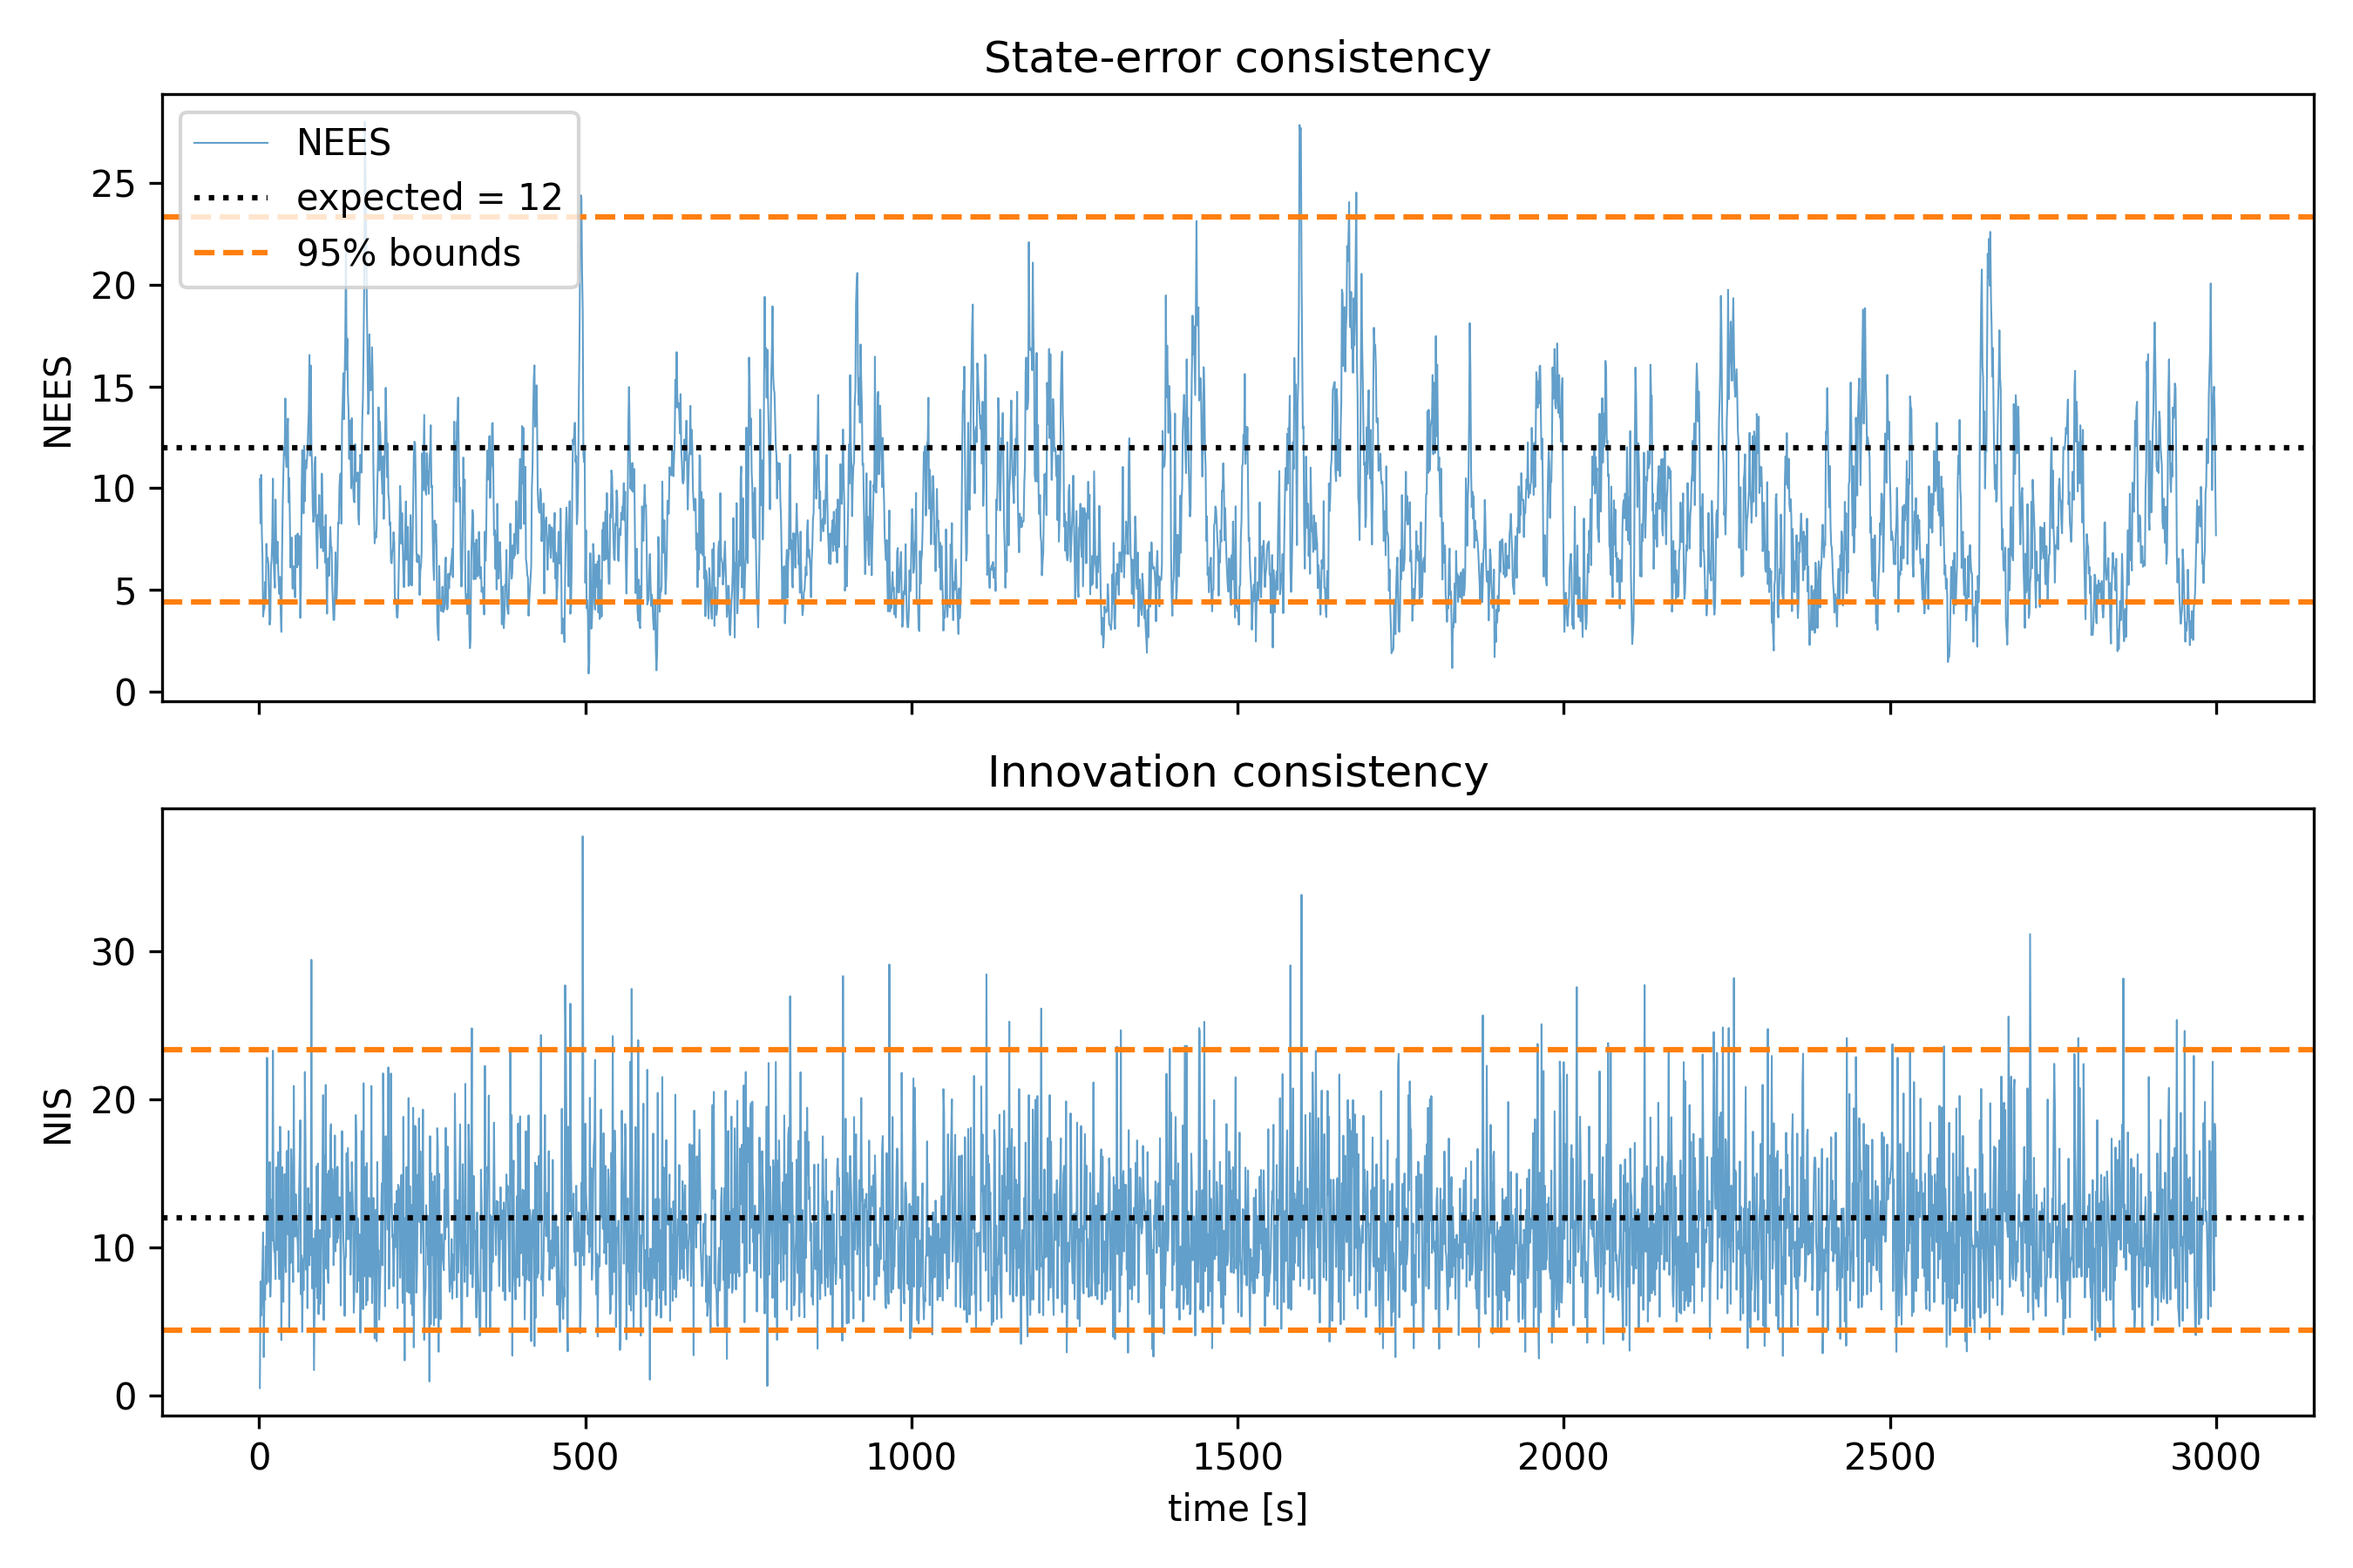
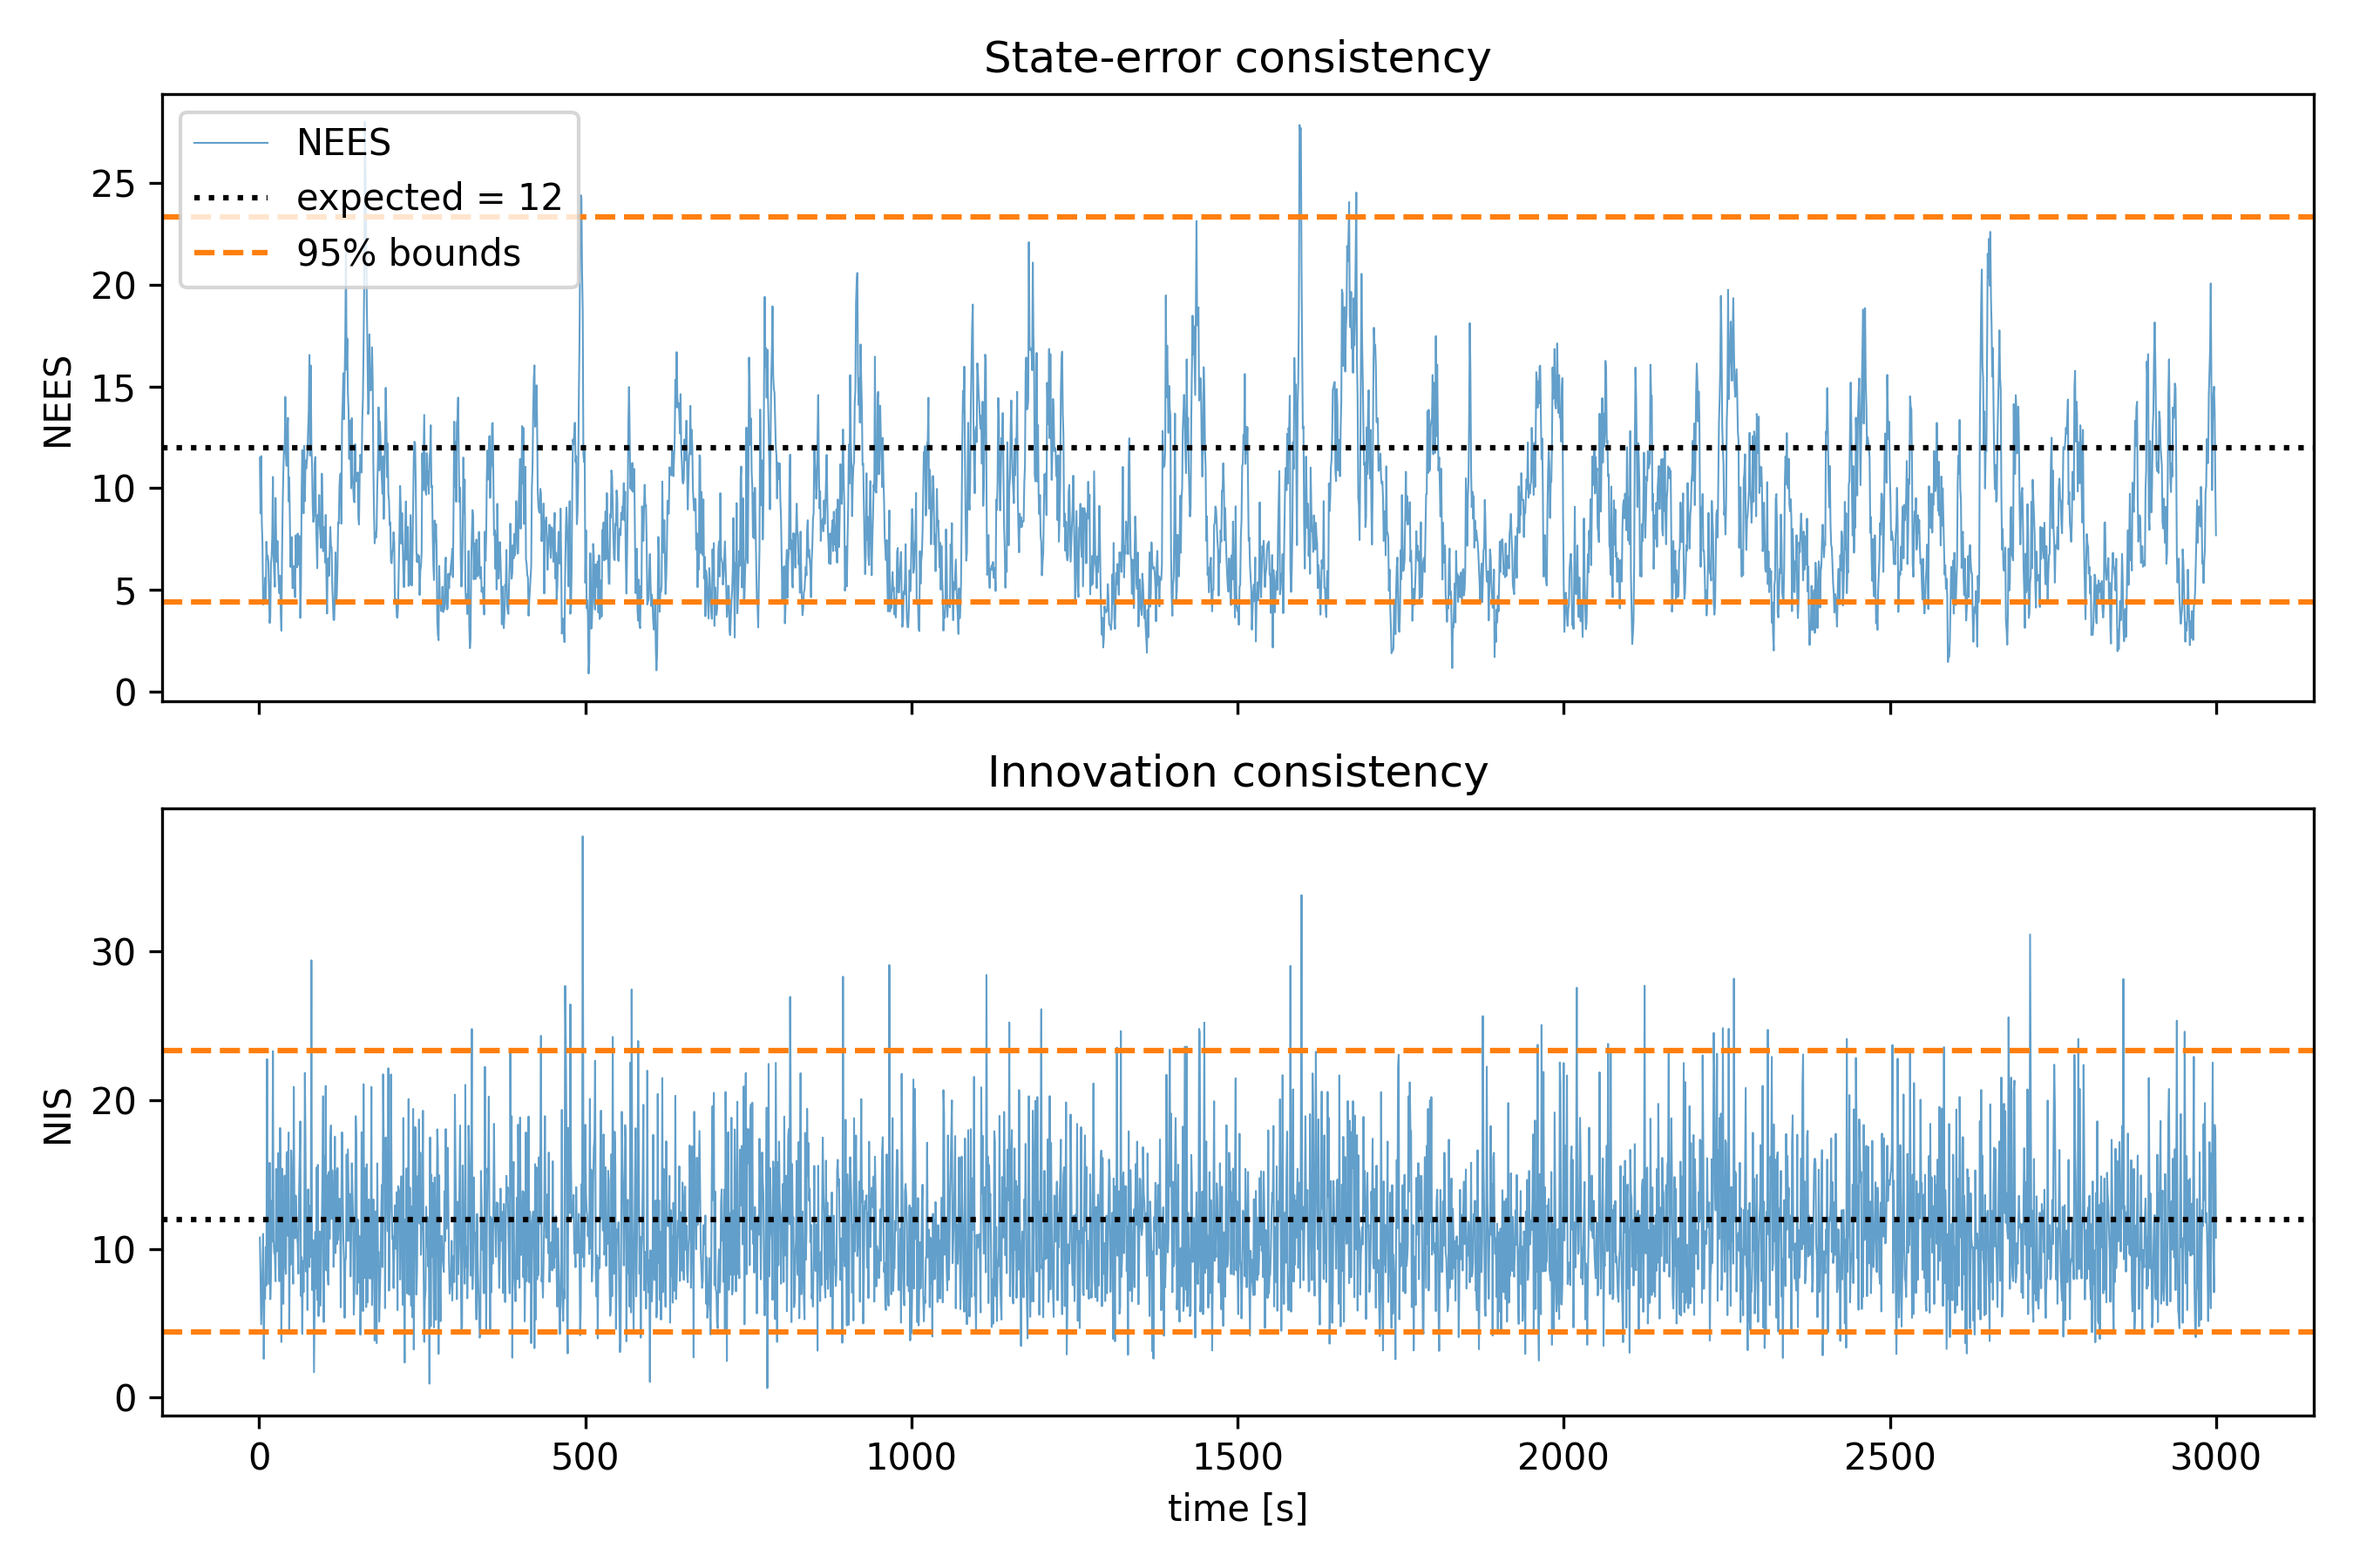
fixed x0_est and some comments

Changed region(s): [[0.0933, 0.84, 0.1244, 0.8711]]

diff --git a/scripts/run_ekf_nominal.py b/scripts/run_ekf_nominal.py
@@ -12,13 +12,15 @@ from src.fsw.control import LQRController
 from src.sim.scheduler import Scheduler
 from src.sim.runner import SimRunner
 from scripts.run_openloop import build_params
+from src.utils.quaternions import quat_multiply, quat_normalize
 
 def main():
     params = build_params()
 
     # --- LQR tuning matrices
     # arbitrary values but this Q setting (penalizes state error) has position weighted 
-    # 10× more than velocity, meaningwe care more about being at the dock than about Rthe exact speed
+    # 10× more than velocity, meaningwe we care more about being at the dock
+    # than about the exact speed
     Q_trans = np.diag([1.0, 1.0, 1.0,    # position error (x,y,z)
                        0.1, 0.1, 0.1])   # velocity error (vx,vy,vz)
     R_trans = np.diag([1.0, 1.0, 1.0]) * 10.0    # thrust cost; bigger = stingier with fuel
@@ -26,10 +28,10 @@ def main():
     R_att   = np.diag([1.0, 1.0, 1.0]) * 100.0   # make using torque very expensive
 
     # --- EKF tuning, [δr(3), δv(3), δθ(3), δω(3)]
-    # sort of arbitrary, but the idea is that we have a good handle on the translational state
-    # (position & velocity) and worse on the attitude (small-angle error) and angular rate
-    # The process noise is set to be small for position and attitude, 
-    # and larger for velocity and angular rate, which are the primary channels of uncertainty.
+    # sort of arbitrary, but i assume moderate spatial error, tighter confidence in
+    # initial angular rate, looser on initial attitude
+    # The process noise is set to be small for position and attitude, and larger
+    # for velocity and angular rate, which are the primary channels of uncertainty.
     P0 = np.diag([
         1.0, 1.0, 1.0,               # initial pos uncertainty (m^2)
         0.1, 0.1, 0.1,               # velocity  (m/s)^2
@@ -70,7 +72,20 @@ def main():
     # it starts with a small initial estimate error (up to 0.5 m) and relies on
     # its measurement updates to converge
     x0_est = x0.copy()
-    x0_est[0:3] += np.array([0.5, -0.5, 0.3])
+
+    # Position: 1.0 m per axis (matches P0 = 1.0 m²)
+    x0_est[0:3]   += np.array([1.0, -1.0, 1.0])
+    # Velocity: 0.316 m/s per axis (matches P0 = 0.1 (m/s)²)
+    x0_est[3:6]   += np.array([0.316, -0.316, 0.316])
+    # Angular rate: 0.1 deg/s per axis (matches P0 = deg2rad(0.1)²)
+    x0_est[10:13] += np.deg2rad(np.array([0.1, -0.1, 0.1]))
+
+    # Attitude: 5 deg per axis (matches P0 = deg2rad(5)²)
+    # Apply MULTIPLICATIVELY (not additively — attitude trap)
+    dtheta = np.deg2rad(np.array([5.0, -5.0, 5.0]))
+    dq = np.array([1.0, 0.5*dtheta[0], 0.5*dtheta[1], 0.5*dtheta[2]])
+    dq = quat_normalize(dq)
+    x0_est[6:10] = quat_normalize(quat_multiply(x0_est[6:10], dq))
 
     plant = Plant(params, x0)
     actuators = Actuators(max_force=10.0, max_torque=5.0)

diff --git a/src/analysis/monte_carlo.py b/src/analysis/monte_carlo.py
@@ -79,13 +79,15 @@ def run_single(seed, nominal_x0, params, dock_position, t_end=3000.0, dt=1.0,
     x0_truth = (sample_dispersed_x0(rng, nominal_x0) if disperse_ic
                 else nominal_x0.copy())
 
-    # --- EKF initial estimate: a further small offset from the dispersed truth
-    # simulates real-life uncertainty at initialization: the EKF does not 
-    # know the exact true position of the spacecraft right at t=0; 
-    # it starts with a small initial estimate error (up to 0.5 m) and relies on
-    # its measurement updates to converge
+    # EKF initial estimate
     x0_est = x0_truth.copy()
-    x0_est[0:3] += rng.normal(0, 0.5, 3)
+    x0_est[0:3]   += np.array([1.0, -1.0, 1.0])
+    x0_est[3:6]   += np.array([0.316, -0.316, 0.316])
+    x0_est[10:13] += np.deg2rad(np.array([0.1, -0.1, 0.1]))
+    dtheta = np.deg2rad(np.array([5.0, -5.0, 5.0]))
+    dq = np.array([1.0, 0.5*dtheta[0], 0.5*dtheta[1], 0.5*dtheta[2]])
+    dq = quat_normalize(dq)
+    x0_est[6:10] = quat_normalize(quat_multiply(x0_est[6:10], dq))
 
     plant = Plant(params, x0_truth)
     actuators = Actuators(max_force=10.0, max_torque=5.0)

diff --git a/scripts/run_dropout.py b/scripts/run_dropout.py
@@ -45,7 +45,21 @@ def run_with_dropout(dropout_windows, t_end=3000.0, dt=1.0, seed=42):
     sensor = DropoutSensor(base_sensor, dropout_windows, dt=dt)
 
     x0_est = x0.copy()
-    x0_est[0:3] += [0.5, -0.5, 0.3]
+    #x0_est[0:3] += [0.5, -0.5, 0.3]
+    # Position: 1.0 m per axis (matches P0 = 1.0 m²)
+    x0_est[0:3]   += np.array([1.0, -1.0, 1.0])
+    # Velocity: 0.316 m/s per axis (matches P0 = 0.1 (m/s)²)
+    x0_est[3:6]   += np.array([0.316, -0.316, 0.316])
+    # Angular rate: 0.1 deg/s per axis (matches P0 = deg2rad(0.1)²)
+    x0_est[10:13] += np.deg2rad(np.array([0.1, -0.1, 0.1]))
+    # Attitude: 5 deg per axis (matches P0 = deg2rad(5)²)
+    # Apply MULTIPLICATIVELY (not additively — attitude trap)
+    from src.utils.quaternions import quat_multiply, quat_normalize
+    dtheta = np.deg2rad(np.array([5.0, -5.0, 5.0]))
+    dq = np.array([1.0, 0.5*dtheta[0], 0.5*dtheta[1], 0.5*dtheta[2]])
+    dq = quat_normalize(dq)
+    x0_est[6:10] = quat_normalize(quat_multiply(x0_est[6:10], dq))
+    
     nav = EKFNav(params, x0_est, P0, Q_ekf, R_ekf)
 
     guidance = Guidance(dock_position=dock_position)

diff --git a/scripts/run_ekf_consistency.py b/scripts/run_ekf_consistency.py
@@ -17,6 +17,7 @@ from src.fsw.control import LQRController
 from src.environment.actuators import Actuators
 from src.analysis.consistency import nees, nis, chi2_bounds
 from scripts.run_nominal import build_params
+from src.utils.quaternions import quat_multiply, quat_normalize
 
 
 def run_with_consistency_logging(t_end=3000.0, dt=1.0, seed=42, q_scale=0.01):
@@ -60,7 +61,14 @@ def run_with_consistency_logging(t_end=3000.0, dt=1.0, seed=42, q_scale=0.01):
     controller = LQRController(params, Q_trans, R_trans, Q_att, R_att)
 
     x0_est = x0.copy()
-    x0_est[0:3] += [0.5, -0.5, 0.3]
+    x0_est[0:3]   += np.array([1.0, -1.0, 1.0])
+    x0_est[3:6]   += np.array([0.316, -0.316, 0.316])
+    x0_est[10:13] += np.deg2rad(np.array([0.1, -0.1, 0.1]))
+    dtheta = np.deg2rad(np.array([5.0, -5.0, 5.0]))
+    dq = np.array([1.0, 0.5*dtheta[0], 0.5*dtheta[1], 0.5*dtheta[2]])
+    dq = quat_normalize(dq)
+    x0_est[6:10] = quat_normalize(quat_multiply(x0_est[6:10], dq))
+
     ekf = MEKF(params, x0_est, P0, Q_base * q_scale, R_ekf)
 
     n_steps = int(t_end / dt)

diff --git a/scripts/tune_ekf.py b/scripts/tune_ekf.py
@@ -17,7 +17,7 @@ from src.sim.scheduler import Scheduler
 from src.sim.runner import SimRunner
 from src.utils.quaternions import quat_error
 from scripts.run_nominal import build_params
-
+from src.utils.quaternions import quat_multiply, quat_normalize
 
 def base_P0():
     return np.diag([
@@ -67,7 +67,13 @@ def run_one(params, q_scale, seed=42, dt=1.0, t_end=3000.0):
     sensor = PoseSensor(pos_std, vel_std, att_std, rate_std, seed=seed)
 
     x0_est = x0.copy()
-    x0_est[0:3] += [0.5, -0.5, 0.3]
+    x0_est[0:3]   += np.array([1.0, -1.0, 1.0])
+    x0_est[3:6]   += np.array([0.316, -0.316, 0.316])
+    x0_est[10:13] += np.deg2rad(np.array([0.1, -0.1, 0.1]))
+    dtheta = np.deg2rad(np.array([5.0, -5.0, 5.0]))
+    dq = np.array([1.0, 0.5*dtheta[0], 0.5*dtheta[1], 0.5*dtheta[2]])
+    dq = quat_normalize(dq)
+    x0_est[6:10] = quat_normalize(quat_multiply(x0_est[6:10], dq))
 
     # pass different q_scale values for Q into the EKF initialization
     nav = EKFNav(params, x0_est, base_P0(), base_Q() * q_scale,

diff --git a/scripts/run_envelope.py b/scripts/run_envelope.py
@@ -51,7 +51,13 @@ def run_one(nominal_x0, pos_offset, vel_offset, params, dock_position,
 
     x0 = make_ic(nominal_x0, pos_offset, vel_offset)
     x0_est = x0.copy()
-    x0_est[0:3] += [0.5, -0.5, 0.3]
+    x0_est[0:3]   += np.array([1.0, -1.0, 1.0])
+    x0_est[3:6]   += np.array([0.316, -0.316, 0.316])
+    x0_est[10:13] += np.deg2rad(np.array([0.1, -0.1, 0.1]))
+    dtheta = np.deg2rad(np.array([5.0, -5.0, 5.0]))
+    dq = np.array([1.0, 0.5*dtheta[0], 0.5*dtheta[1], 0.5*dtheta[2]])
+    dq = quat_normalize(dq)
+    x0_est[6:10] = quat_normalize(quat_multiply(x0_est[6:10], dq))
 
     plant = Plant(params, x0)
     actuators = Actuators(max_force=10.0, max_torque=5.0)

diff --git a/src/sim/scheduler.py b/src/sim/scheduler.py
@@ -1,5 +1,4 @@
-"""Fixed-rate scheduler. Assumes single-rate (sensor, nav, control all at the
-same dt). Will add multi_rate hooks (e.g. fast IMU, slow camera) later"""
+"""Fixed-rate scheduler. Assumes single-rate (sensor, nav, ctrl) are all at the same dt"""
 
 class Scheduler:
     def __init__(self, dt, control_decimation=1, sensor_decimation=1):

diff --git a/src/fsw/control.py b/src/fsw/control.py
@@ -1,7 +1,7 @@
 """LQR flight controller. Designs two decoupled LQR gains (translation +
 attitude) about the docking setpoint, then computes u = -K (x - x_ref).
 
-Translation(Clohessy-Wiltshire) is linear.
+Translation (Clohessy-Wiltshire) is linear.
 Attitude model is linearized about the target attitude (small-angle)."""
 
 import numpy as np

diff --git a/README.md b/README.md
@@ -62,9 +62,8 @@ attitude error. Corrections are injected multiplicatively into the quaternion.
 ## Control
 - Decoupled LQR for translation and attitude, designed via continuous-time
   algebraic Riccati equation
-- Stability margins: the classical guaranteed margins (≥6 dB gain, ≥60° phase)
-  weaken under discrete sampling and EKF-based estimation, so robustness is
-  verified via Monte Carlo.
+- The (continuous full-state) stability margins would weaken under discrete sampling
+  and the LQR+EKF combination. Robustness is therefore verified via Monte Carlo.
 
 ## Navigation
 - **Multiplicative EKF** with a 12-dim error state, avoiding the singular
